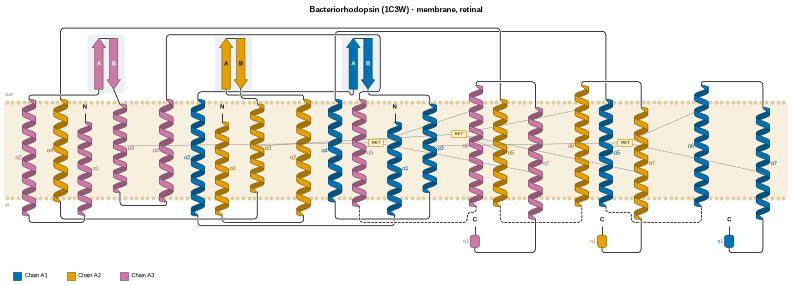
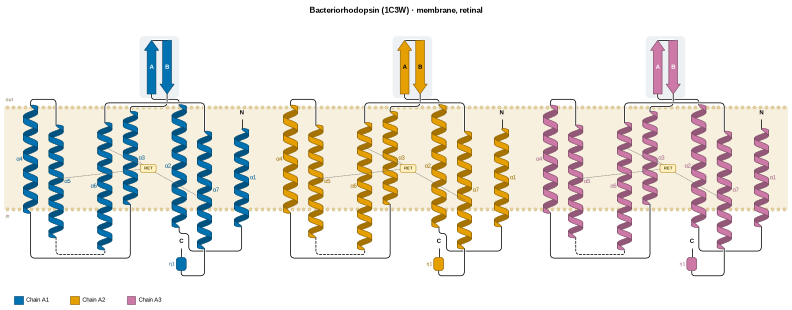
Bundles: fraction 0.8 again; 0.75 bundled bacteriorhodopsin's trimer interface
At 0.75 helix B of each 1C3W protomer and helix D of its neighbour (cover
exactly 15/20 = 0.75) became cross-chain bundles. The bundle items glued the
protomers together, so the membrane trimer drew its three chains interleaved.
The 8UUP stalk does not need 0.75: its pieces link to the neighbours' whole
kinked helices at 0.95. At 0.8 every structure in tests/data, in its default
assembly, has the same bundles as at 0.75 except 1C3W, which has none again.

Changed region(s): [[0.0, 0.0842, 1.0, 0.8982], [0.3939, 0.0, 0.6061, 0.0561], [0.0, 0.9544, 0.2121, 1.0]]

diff --git a/tests/test_features.py b/tests/test_features.py
@@ -25,10 +25,10 @@ def test_no_elements_no_contacts(ubq):
     assert sse_contacts(bb, []) == {}
 
 
-def _bundles(path):
+def _bundles(path, assembly="asu"):
     from foldmap.features import helix_bundles
 
-    _, sses, _ = pipeline(path)
+    _, sses, _ = pipeline(path, assembly)
     return [set(g) for g in helix_bundles(sses)]
 
 
@@ -47,6 +47,11 @@ def test_lambda_repressor_dimerisation_helices_are_a_bundle(ubq):
 def test_no_bundles_without_a_long_parallel_interface(ubq):
     for name in ("1UBQ", "2HHB", "1TIM", "6ZS5", "2LZM"):
         assert _bundles(ubq.parent / f"{name}.cif") == [], name
+
+
+def test_bacteriorhodopsin_trimer_interface_helices_are_not_a_bundle(ubq):
+    # helix B of one protomer runs within 12 Å of helix D of the next over exactly 3/4 of its length
+    assert _bundles(ubq.parent / "1C3W.cif", assembly="auto") == []
 
 
 def test_a_short_kinked_piece_stays_with_its_helix_in_a_bundle():

diff --git a/tests/test_membrane.py b/tests/test_membrane.py
@@ -89,3 +89,13 @@ def test_sides_labelled_only_when_the_positive_inside_rule_is_clear():
 def test_outside_on_top_even_for_symmetric_assemblies():
     lay, _, _ = make_layout(DATA / "1C3W.cif", membrane="auto")  # bacteriorhodopsin trimer, unrolled about C3
     assert lay.membrane["sides"] and lay.membrane["inside"] == "below"
+
+
+def test_trimer_protomers_are_drawn_side_by_side():
+    lay, _, _ = make_layout(DATA / "1C3W.cif", membrane="auto")
+    span = {}
+    for p in lay.placed.values():
+        lo, hi = span.get(p.sse.chain, (p.cx, p.cx))
+        span[p.sse.chain] = (min(lo, p.cx), max(hi, p.cx))
+    (a0, a1), (b0, b1), (c0, c1) = sorted(span.values())
+    assert len(span) == 3 and a1 < b0 and b1 < c0  # each chain its own x-range, no interleaving

diff --git a/src/foldmap/features.py b/src/foldmap/features.py
@@ -33,7 +33,7 @@ def sse_contacts(bb: Backbone, sses: list[SSE], cutoff: float = CONTACT_CUTOFF) 
 BUNDLE_MIN = 10  # residues: shorter helices are turns at an interface, not a coiled-coil stalk
 BUNDLE_COS = 0.75  # |cos| between axes: parallel or antiparallel
 BUNDLE_DIST = 12.0  # Å between axis segments
-BUNDLE_COVER = 0.75  # fraction of the shorter helix that must run that close
+BUNDLE_COVER = 0.8  # fraction of the shorter helix that must run that close
 KINK_GAP = 2  # residues: helix pieces this close in one chain, roughly collinear, count as one helix
 KINK_COS = 0.5  # a kink bends the axis by up to 60 degrees
 KINK_SHORT = 7  # residues: a piece this short has no reliable axis of its own, so it continues its neighbour
